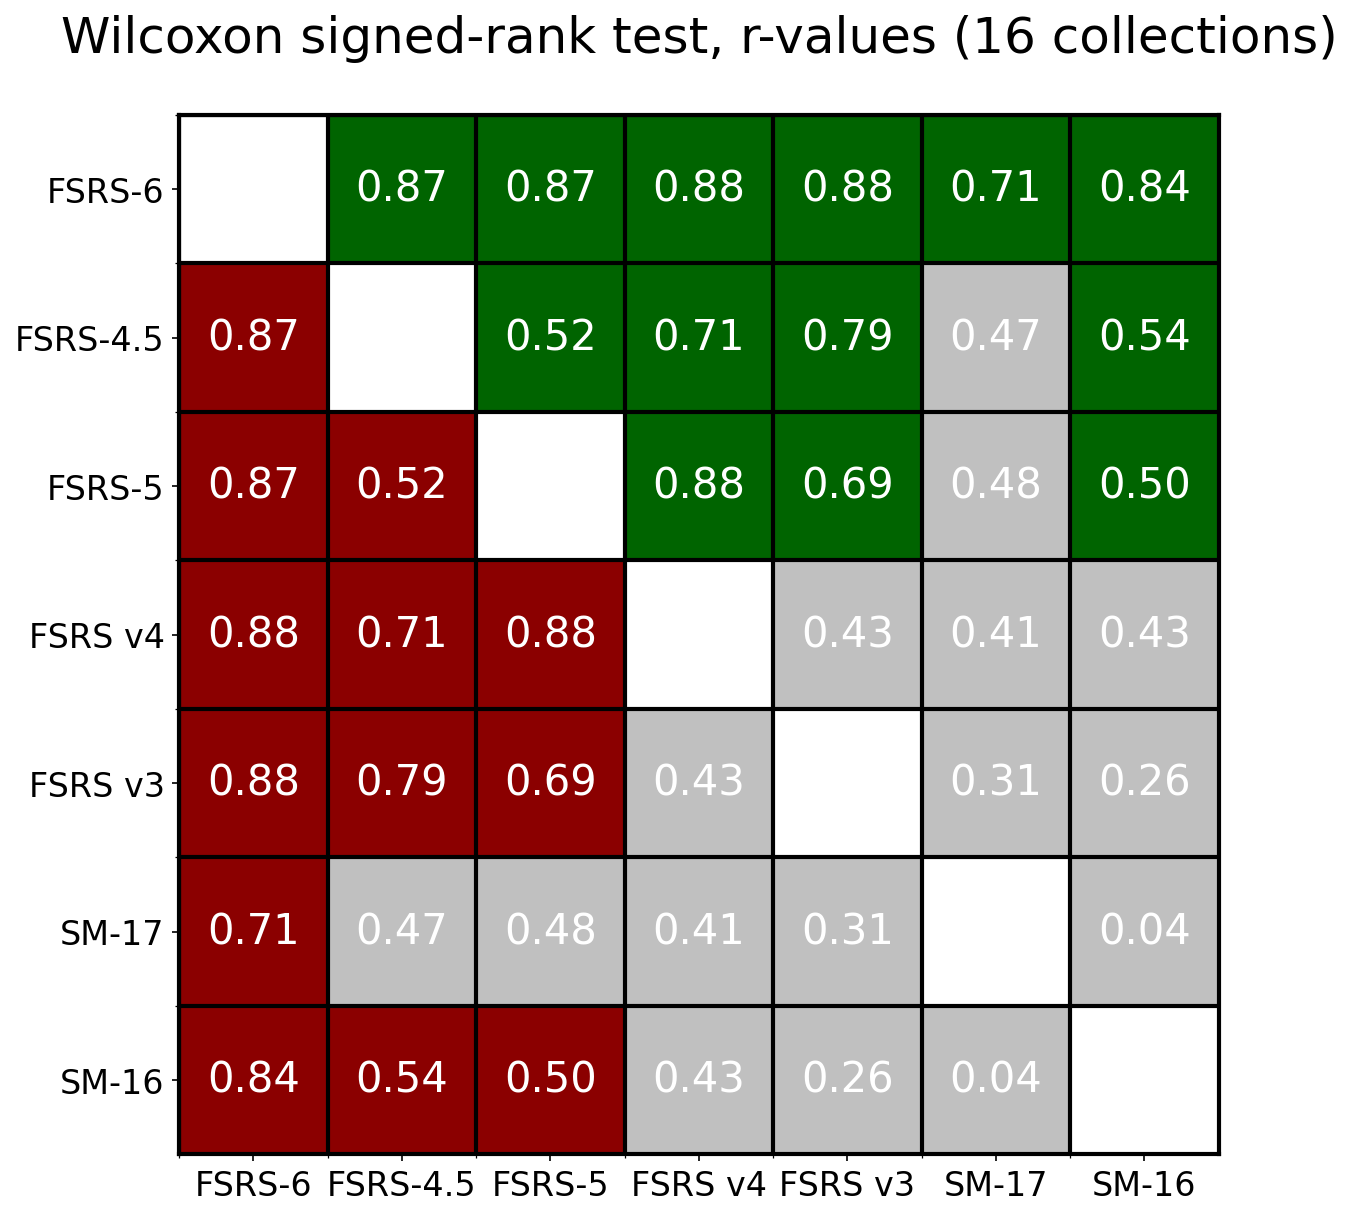
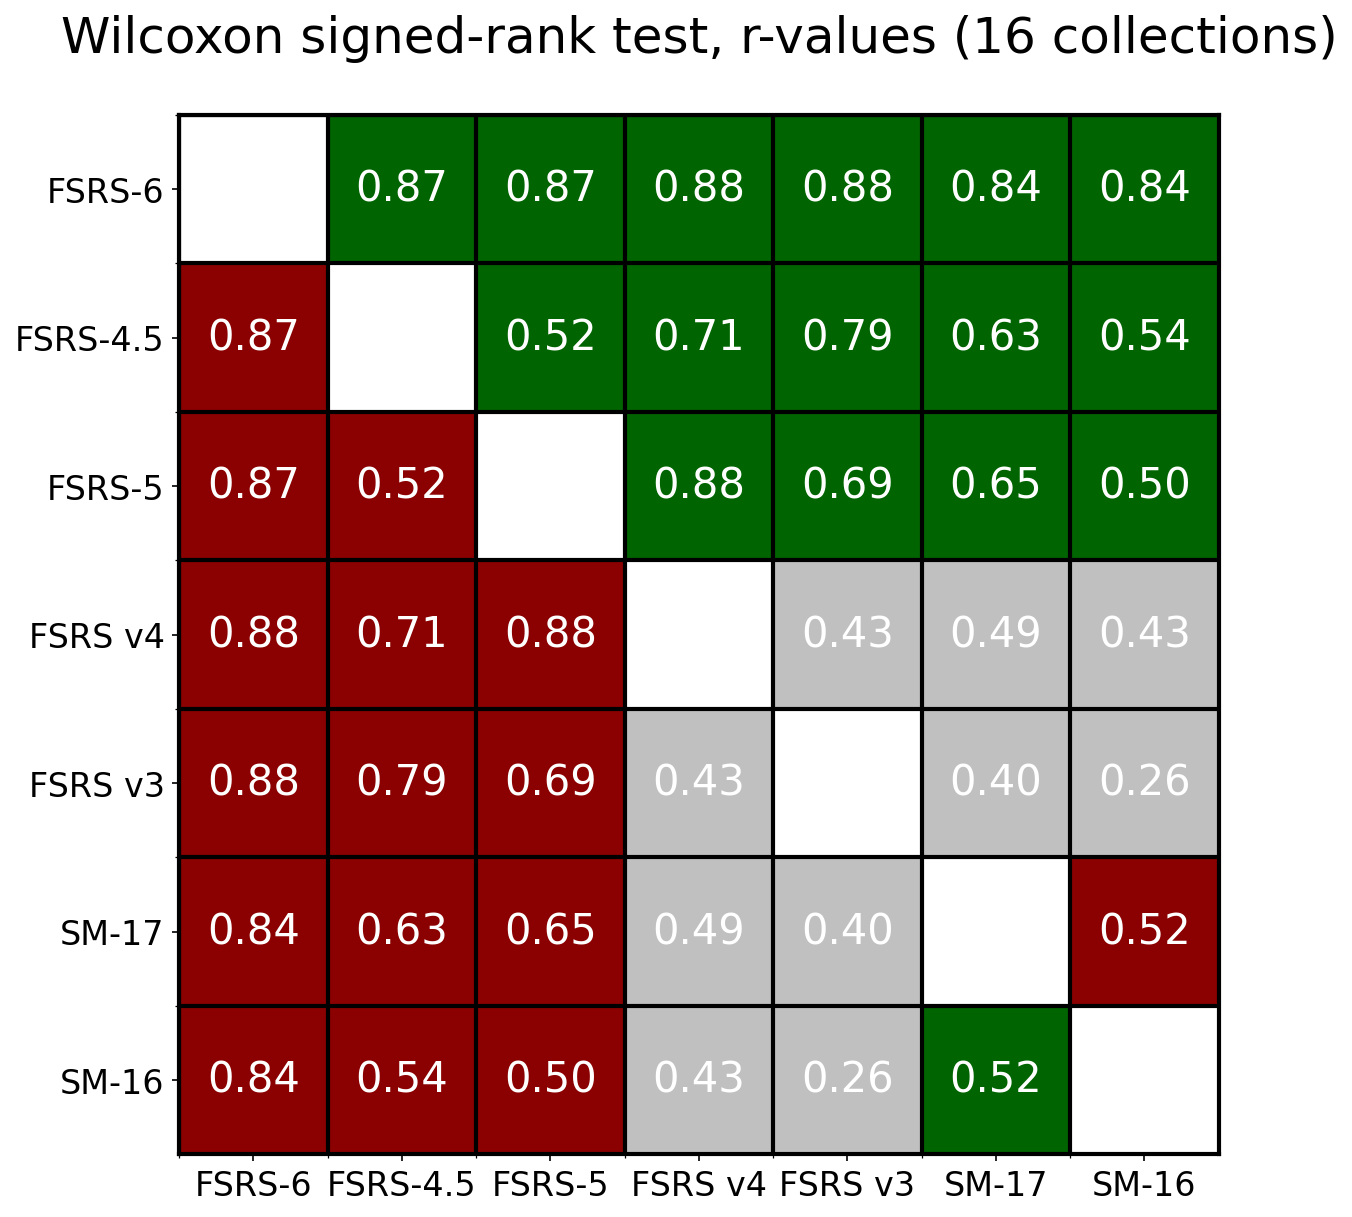
use R (SM17) instead of R (SM17)(exp)

diff --git a/script.py b/script.py
@@ -49,7 +49,7 @@ def data_preprocessing(csv_file_path, save_csv=False):
     df = df[
         (df["R (SM16)"] <= 1) & (df["R (SM17)"] <= 1) & (df["R (SM17)(exp)"] <= 1)
     ].copy()
-    df["R (SM17)(exp)"] = df["R (SM17)(exp)"].map(lambda x: np.clip(x, 0.001, 0.999))
+    df["R (SM17)"] = df["R (SM17)"].map(lambda x: np.clip(x, 0.001, 0.999))
     dataset = df[
         [
             "Date",
@@ -108,6 +108,7 @@ def data_preprocessing(csv_file_path, save_csv=False):
                 "delta_t",
                 "review_rating",
                 "R (SM16)",
+                "R (SM17)",
                 "R (SM17(exp))",
             ]
         ].copy()
@@ -277,8 +278,8 @@ def evaluate(revlogs):
     )
     sm17_rmse = rmse_matrix(
         revlogs[
-            ["card_id", "r_history", "t_history", "delta_t", "i", "y", "R (SM17(exp))"]
-        ].rename(columns={"R (SM17(exp))": "p"})
+            ["card_id", "r_history", "t_history", "delta_t", "i", "y", "R (SM17)"]
+        ].rename(columns={"R (SM17)": "p"})
     )
     fsrs_v6_rmse = rmse_matrix(
         revlogs[
@@ -307,7 +308,7 @@ def evaluate(revlogs):
     )
     avg_logloss = log_loss(revlogs["y"], revlogs["R (AVG)"])
     sm16_logloss = log_loss(revlogs["y"], revlogs["R (SM16)"])
-    sm17_logloss = log_loss(revlogs["y"], revlogs["R (SM17(exp))"])
+    sm17_logloss = log_loss(revlogs["y"], revlogs["R (SM17)"])
     fsrs_v6_logloss = log_loss(revlogs["y"], revlogs["R (FSRS-6)"])
     fsrs_v5_logloss = log_loss(revlogs["y"], revlogs["R (FSRS-5)"])
     fsrs_v4dot5_logloss = log_loss(revlogs["y"], revlogs["R (FSRS-4.5)"])
@@ -315,7 +316,7 @@ def evaluate(revlogs):
     fsrs_v3_logloss = log_loss(revlogs["y"], revlogs["R (FSRSv3)"])
     avg_auc = roc_auc_score(revlogs["y"], revlogs["R (AVG)"])
     sm16_auc = roc_auc_score(revlogs["y"], revlogs["R (SM16)"])
-    sm17_auc = roc_auc_score(revlogs["y"], revlogs["R (SM17(exp))"])
+    sm17_auc = roc_auc_score(revlogs["y"], revlogs["R (SM17)"])
     fsrs_v6_auc = roc_auc_score(revlogs["y"], revlogs["R (FSRS-6)"])
     fsrs_v5_auc = roc_auc_score(revlogs["y"], revlogs["R (FSRS-5)"])
     fsrs_v4dot5_auc = roc_auc_score(revlogs["y"], revlogs["R (FSRS-4.5)"])
